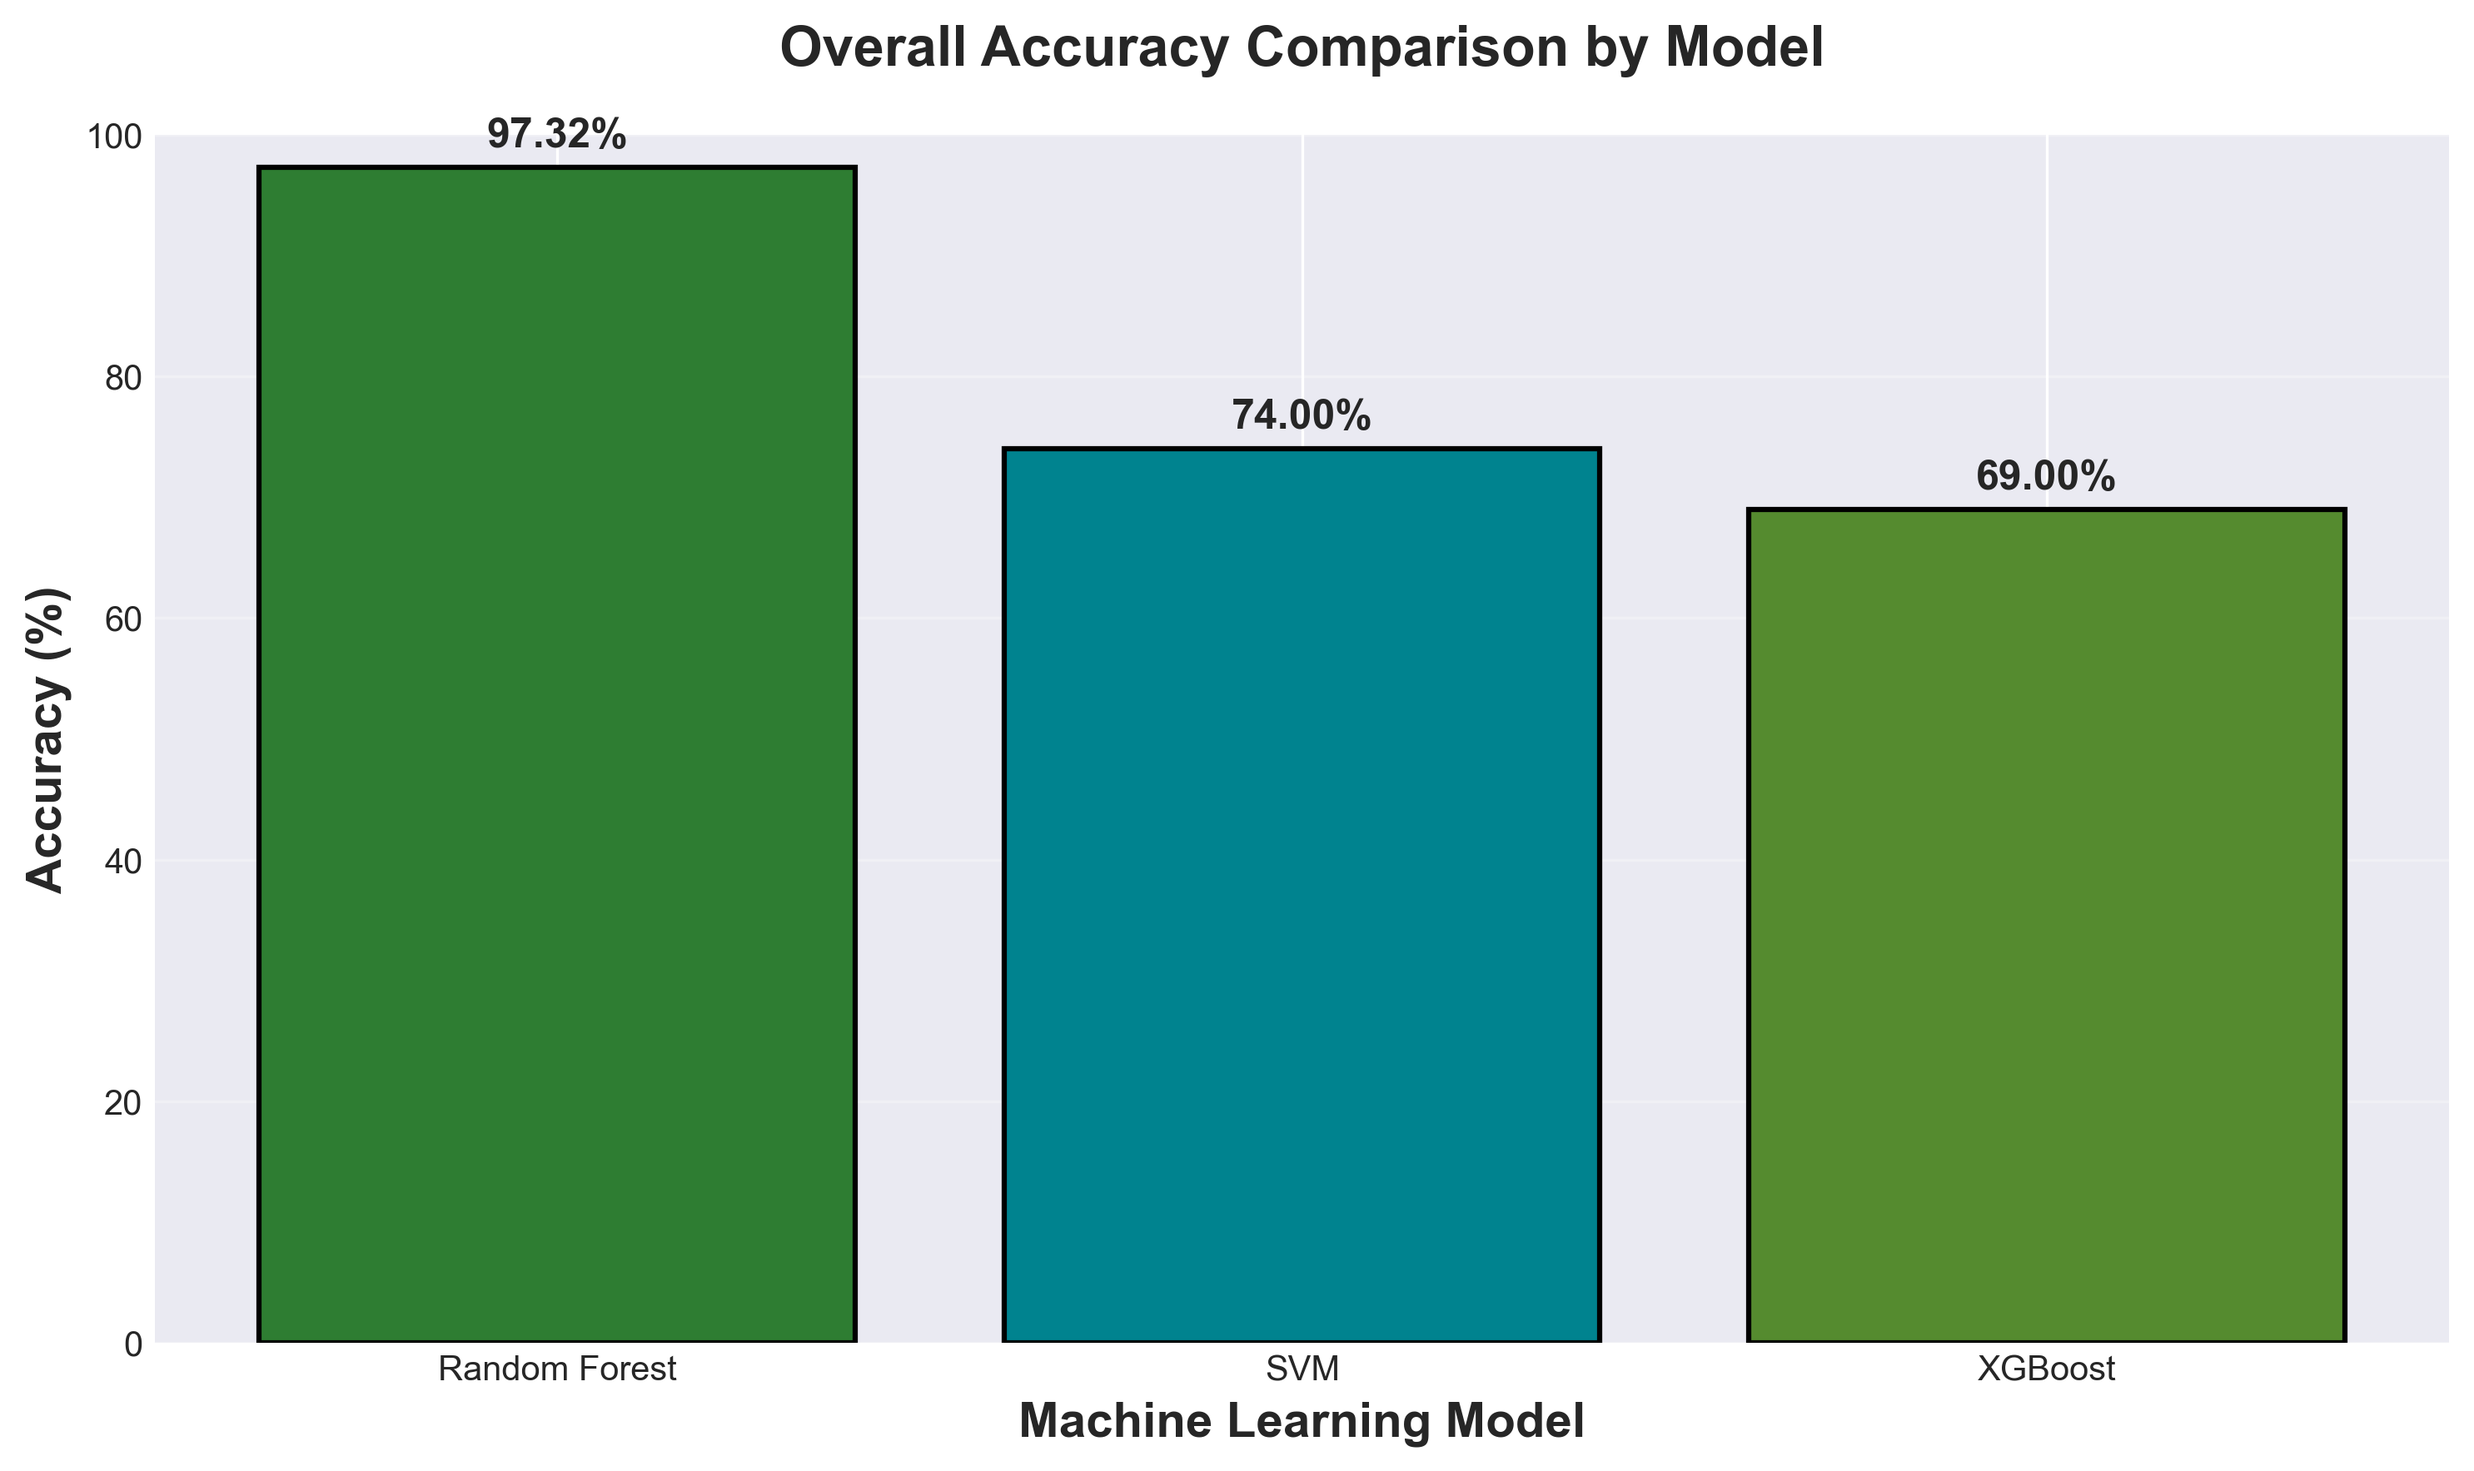
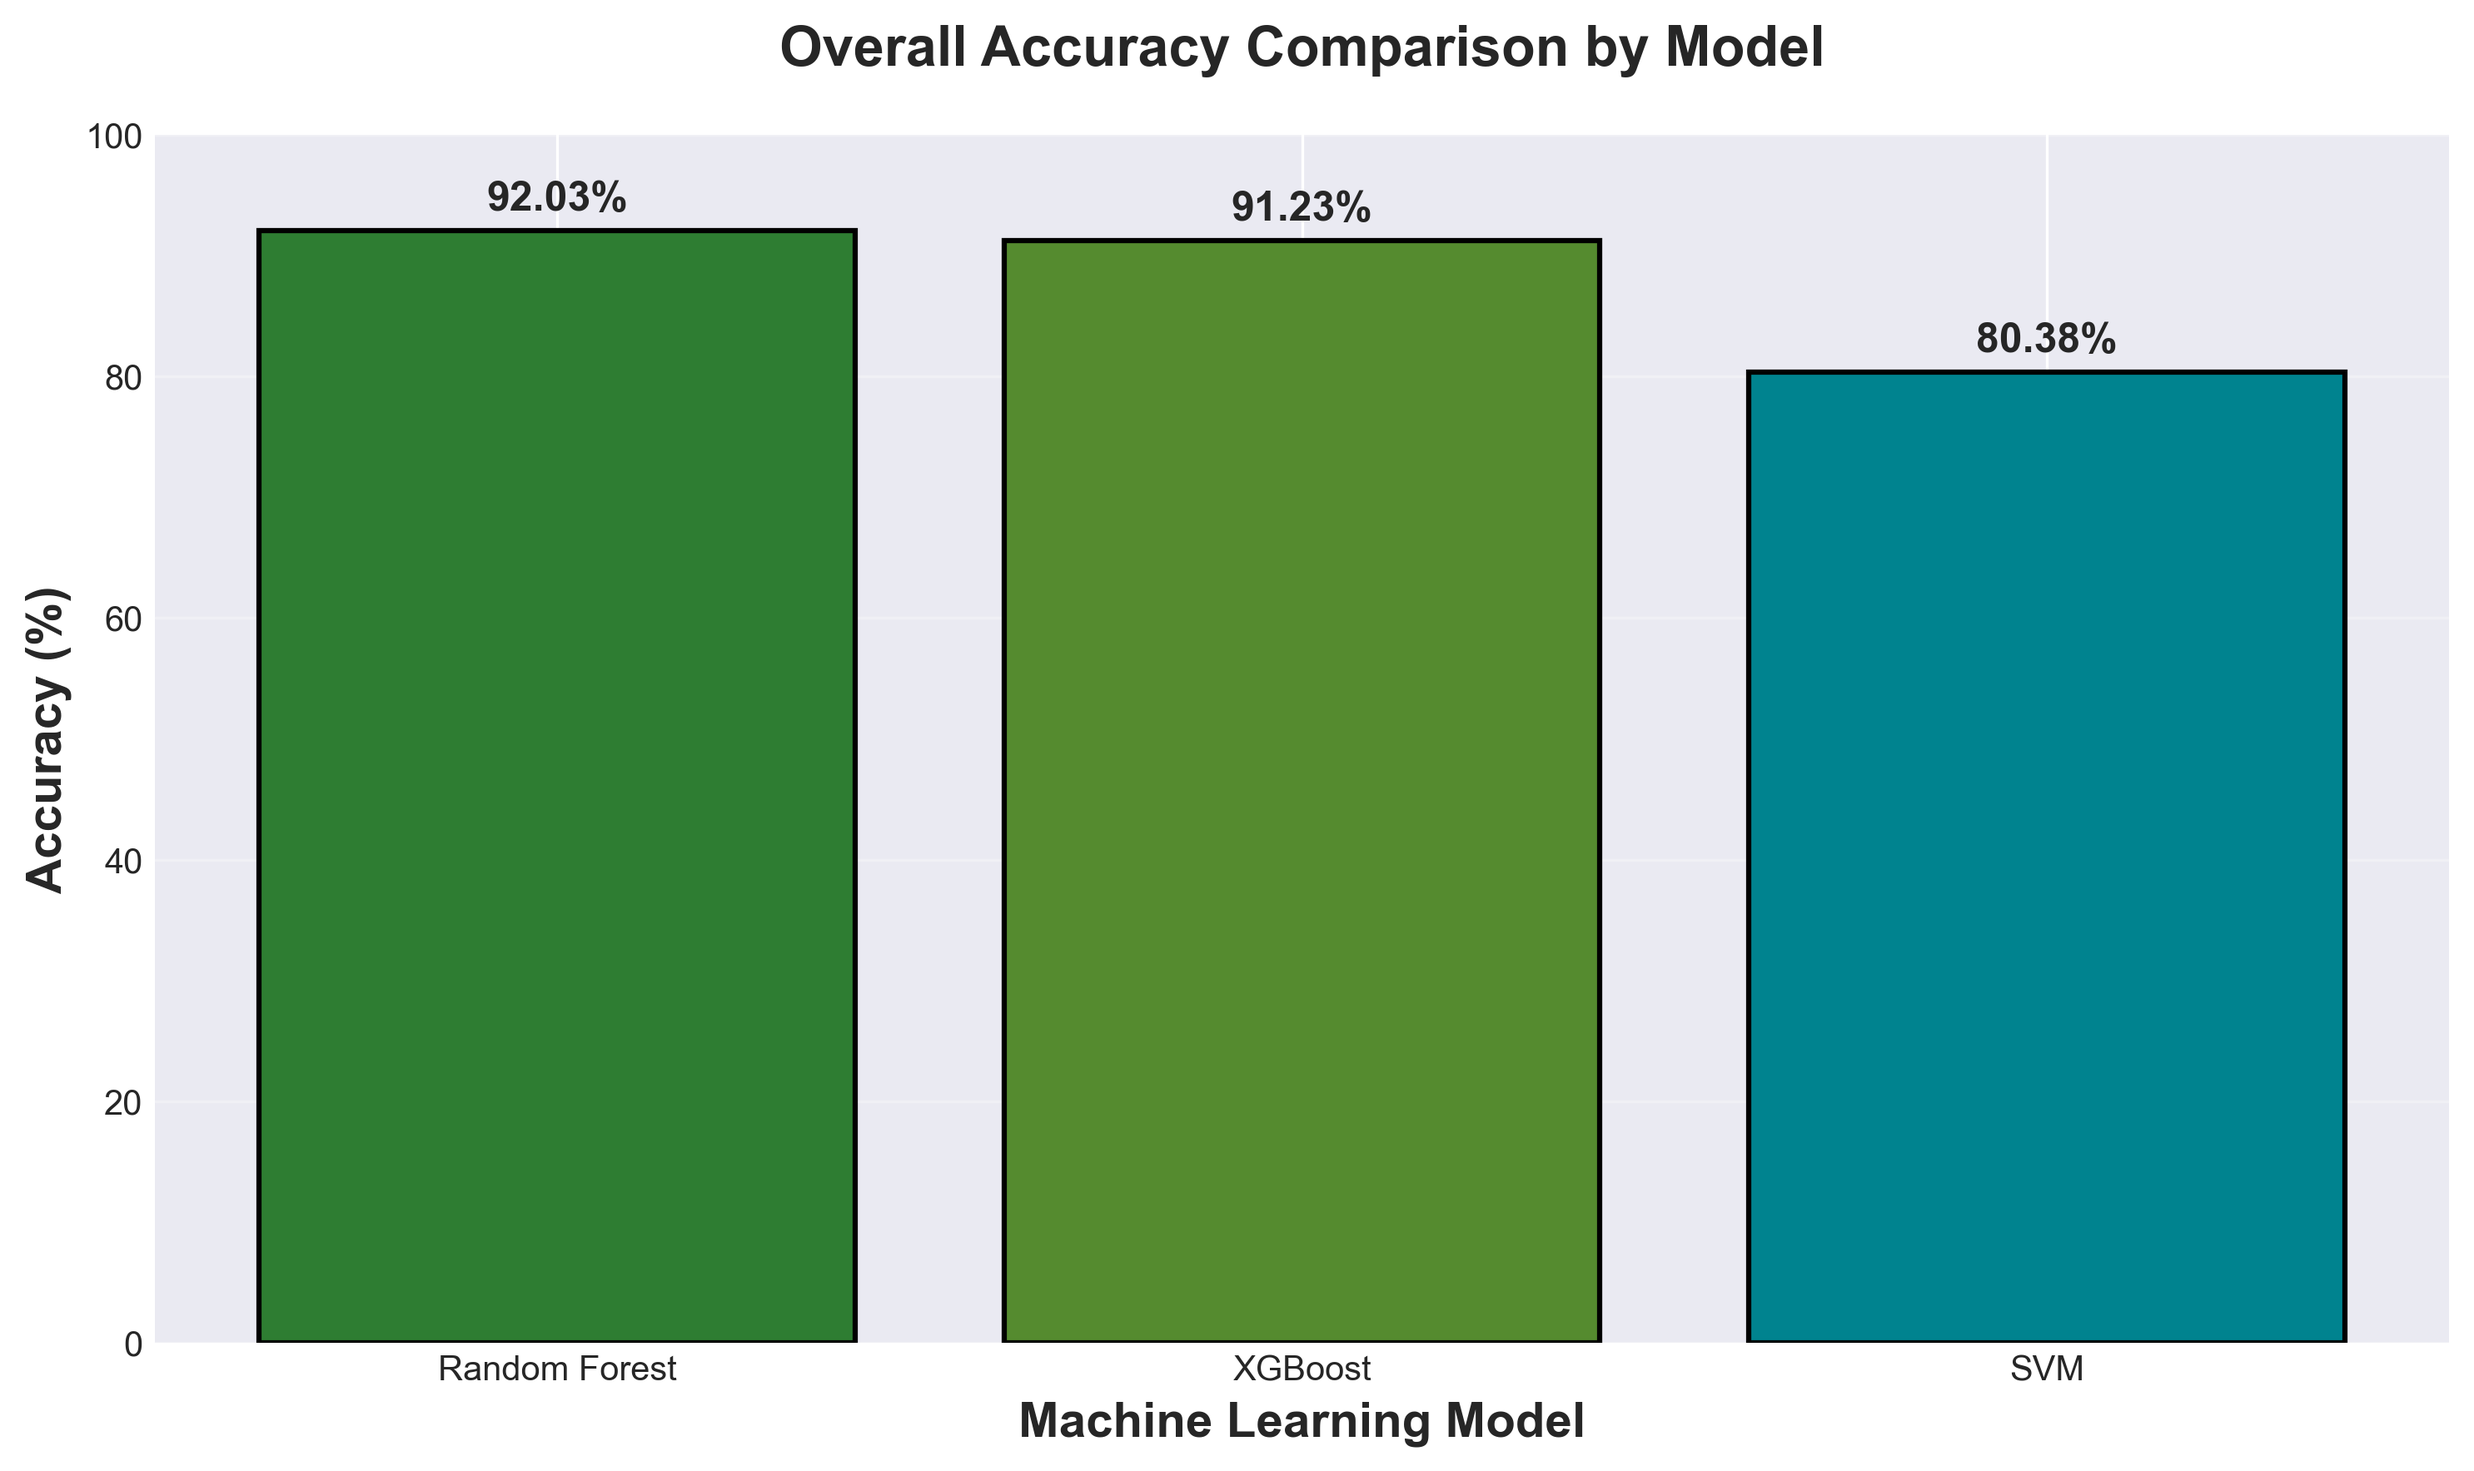
Update presentation charts with 22-feature model accuracy (92.03%)
- Updated Chart 1: Model Accuracy Comparison with correct values
  - Random Forest: 92.03% (was 97.32%)
  - XGBoost: 91.23% (was 69.00%)
  - SVM: 80.38% (was 74.00%)
- Regenerated all 12 presentation charts
- Charts now reflect the updated model without Month/Season features
- All charts use the retrained model with 22 features

diff --git a/generate_presentation_charts.py b/generate_presentation_charts.py
@@ -43,9 +43,9 @@ if not os.path.exists('presentation_charts'):
 print("\n[2] Creating Model Accuracy Comparison chart...")
 
 fig, ax = plt.subplots(figsize=(10, 6))
-models = ['Random Forest', 'SVM', 'XGBoost']
-accuracies = [97.32, 74.00, 69.00]  # Your model vs hypothetical others
-colors = ['#2E7D32', '#00838F', '#558B2F']
+models = ['Random Forest', 'XGBoost', 'SVM']
+accuracies = [92.03, 91.23, 80.38]  # Updated with 22-feature model results
+colors = ['#2E7D32', '#558B2F', '#00838F']
 
 bars = ax.bar(models, accuracies, color=colors, edgecolor='black', linewidth=1.5)
 ax.set_ylabel('Accuracy (%)', fontsize=14, fontweight='bold')
